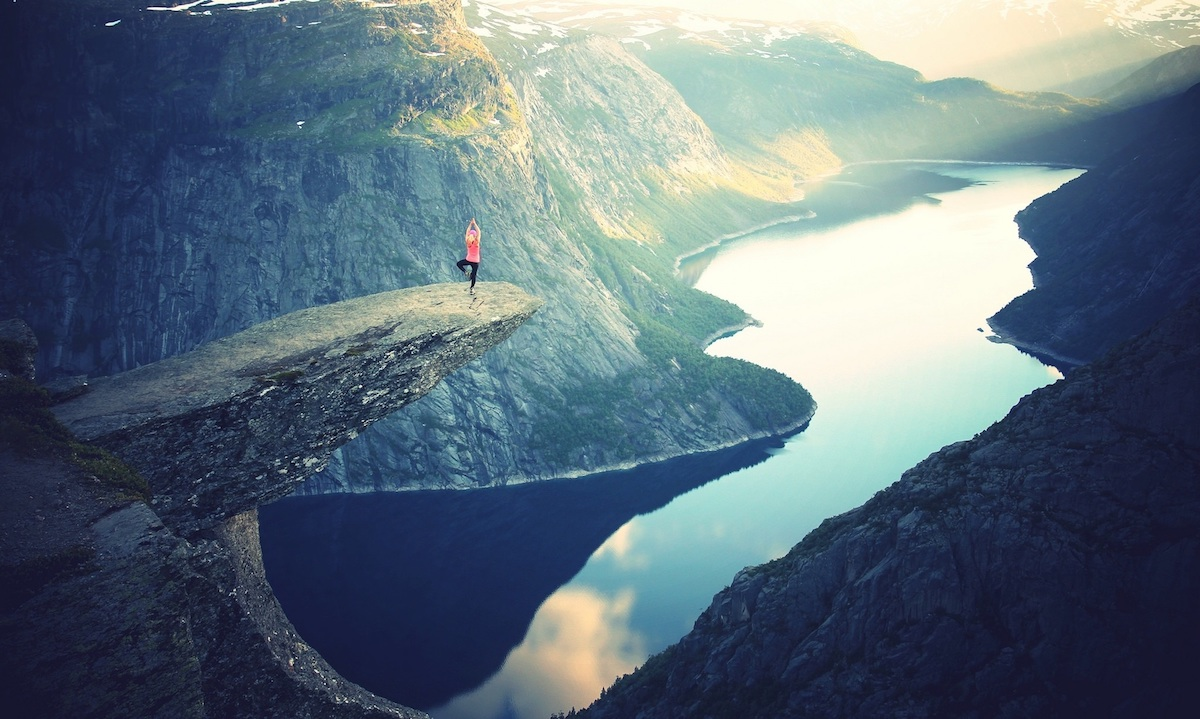
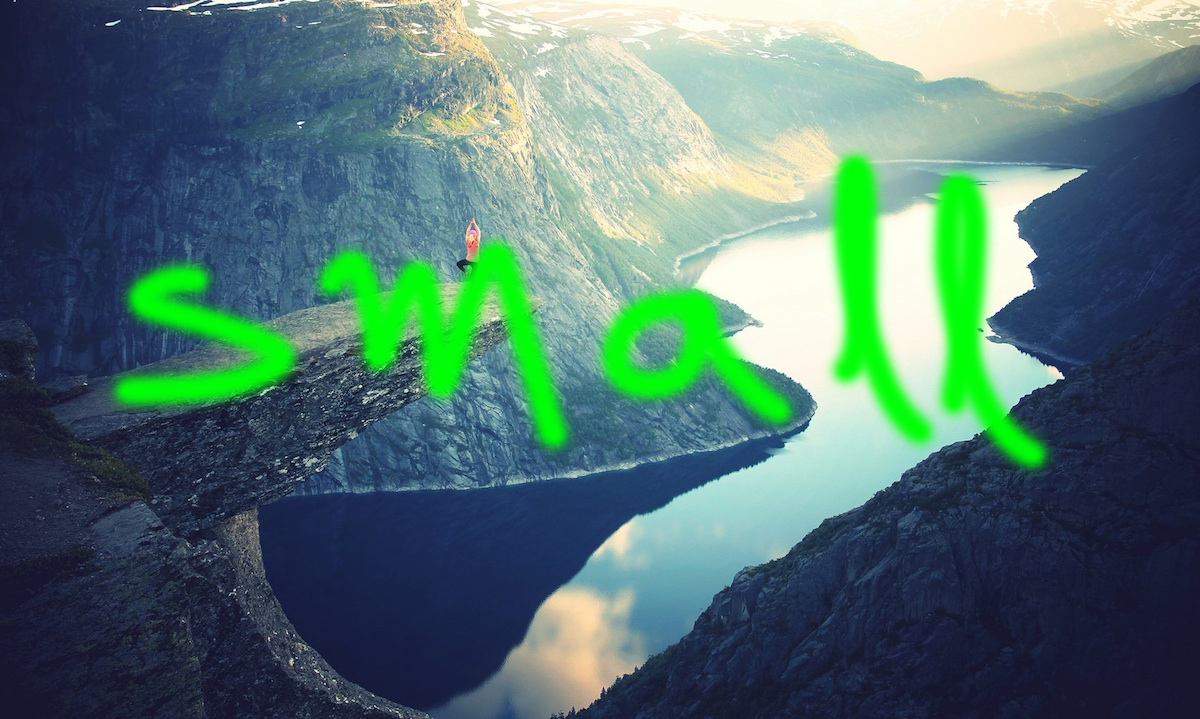
Responsive Images in CSS

diff --git a/css/main.css b/css/main.css
@@ -1094,12 +1094,19 @@ body {
 
 .header {
   height: 95vh;
-  background-image: -webkit-gradient(linear, left top, right bottom, from(rgba(126, 213, 111, 0.8)), to(rgba(40, 180, 133, 0.8))), url(../img/hero.jpg);
-  background-image: linear-gradient(to right bottom, rgba(126, 213, 111, 0.8), rgba(40, 180, 133, 0.8)), url(../img/hero.jpg);
+  background-image: -webkit-gradient(linear, left top, right bottom, from(rgba(126, 213, 111, 0.8)), to(rgba(40, 180, 133, 0.8))), url(../img/hero-small.jpg);
+  background-image: linear-gradient(to right bottom, rgba(126, 213, 111, 0.8), rgba(40, 180, 133, 0.8)), url(../img/hero-small.jpg);
   background-size: cover;
   background-position: top;
   -webkit-clip-path: polygon(0 0, 100% 0, 100% 75vh, 0 100%);
   clip-path: polygon(0 0, 100% 0, 100% 75vh, 0 100%);
+}
+
+@media (-webkit-min-device-pixel-ratio: 2) and (min-width: 600px), (min-resolution: 192dpi) and (min-width: 600px), (min-width: 2000px) {
+  .header {
+    background-image: -webkit-gradient(linear, left top, right bottom, from(rgba(126, 213, 111, 0.8)), to(rgba(40, 180, 133, 0.8))), url(../img/hero.jpg);
+    background-image: linear-gradient(to right bottom, rgba(126, 213, 111, 0.8), rgba(40, 180, 133, 0.8)), url(../img/hero.jpg);
+  }
 }
 
 @media (max-width: 37.5em) {

diff --git a/sass/layout/_header.scss b/sass/layout/_header.scss
@@ -3,11 +3,20 @@
     background-image: linear-gradient(to right bottom,
     rgba($color-primary-light, 0.8), 
     rgba($color-primary-dark, 0.8)), 
-    url(../img/hero.jpg);
+    url(../img/hero-small.jpg);
     background-size: cover;
     background-position: top;
     -webkit-clip-path: polygon(0 0, 100% 0, 100% 75vh, 0 100%);
     clip-path: polygon(0 0, 100% 0, 100% 75vh, 0 100%);
+
+    // apple retina screen resolution
+    @media (min-resolution: 192dpi) and (min-width: 600px),
+        (min-width: 2000px){
+        background-image: linear-gradient(to right bottom,
+        rgba($color-primary-light, 0.8), 
+        rgba($color-primary-dark, 0.8)), 
+        url(../img/hero.jpg);
+    }
 
     @include respond(phone) { // width < 600px 
         -webkit-clip-path: polygon(0 0, 100% 0, 100% 85vh, 0 100%);
